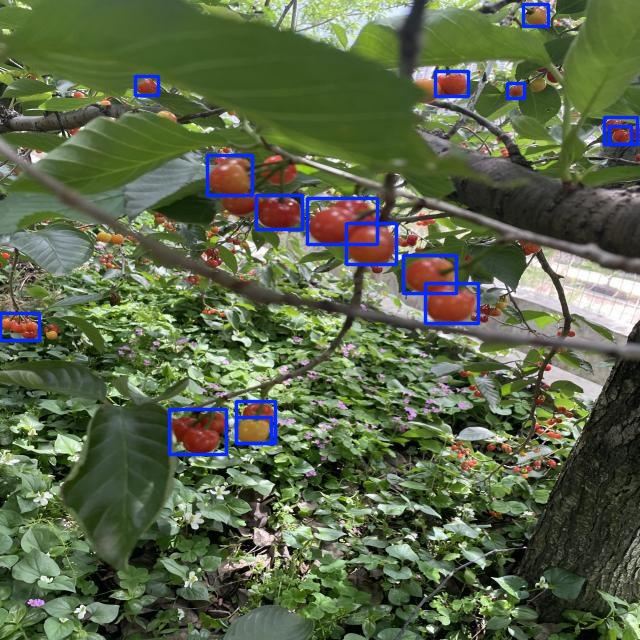
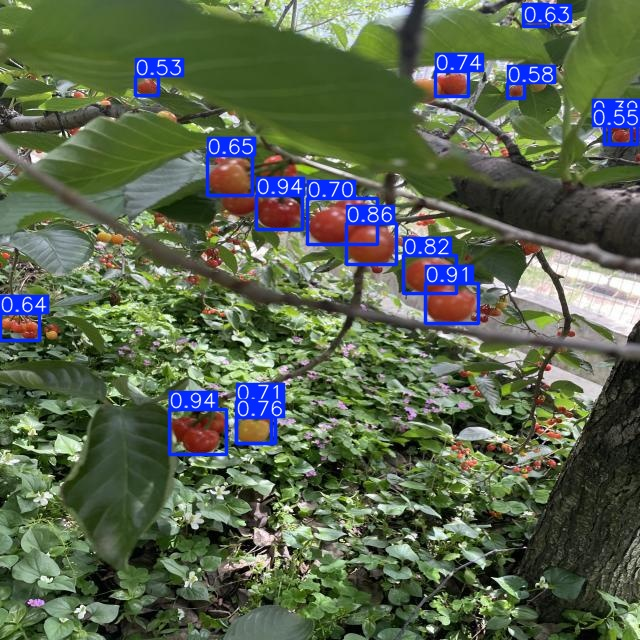
changing collage

diff --git a/Eval/yolo_pred.py b/Eval/yolo_pred.py
@@ -11,7 +11,7 @@ DATA_ROOT = Path(__file__).resolve().parent.parent
 IMAGE_DIR = DATA_ROOT / "compare" / "pred_images"
 PROJECT_DIR = str((DATA_ROOT / 'yolo_train_out').resolve())
 PROJECT_DIR = Path(PROJECT_DIR) 
-RUN_NAME    = 'yolo_pt_auto_label'
+RUN_NAME    = 'yolo_pt_manual_label'
 
 best_weights = PROJECT_DIR / RUN_NAME / 'weights' / 'best.pt'
 
@@ -25,7 +25,7 @@ results = yolo_eval.predict(
     conf=0.35,
     save=True,
     show_labels=False,   
-    show_conf=False,     
+    show_conf=True,     
     project=PROJECT_DIR,
     name=RUN_NAME + "_pred",
     exist_ok=True,
